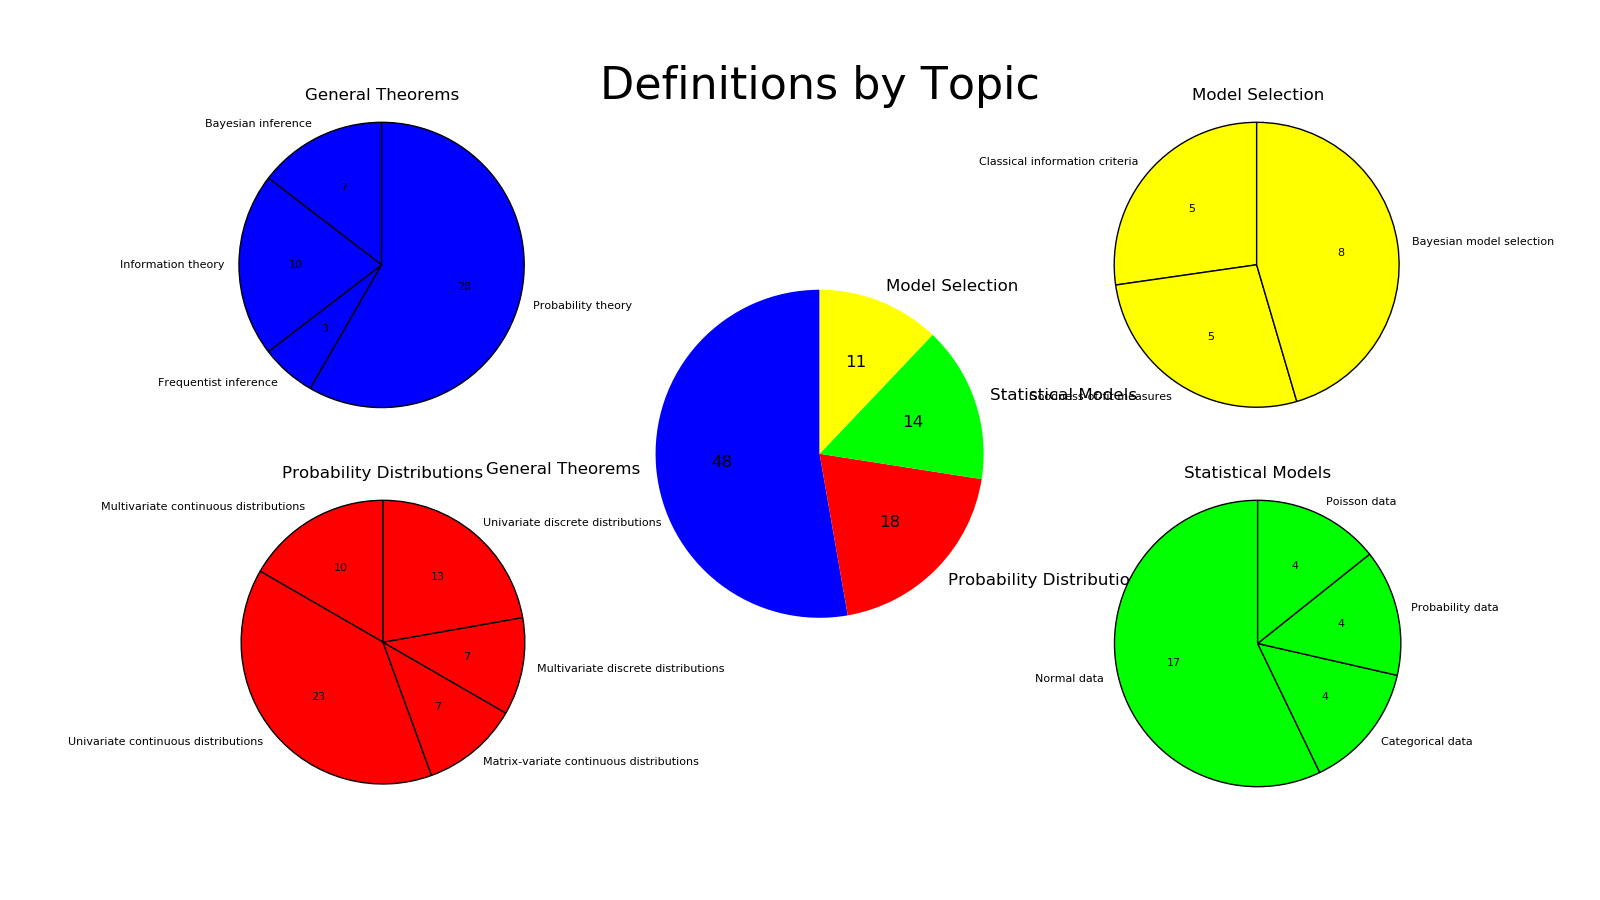
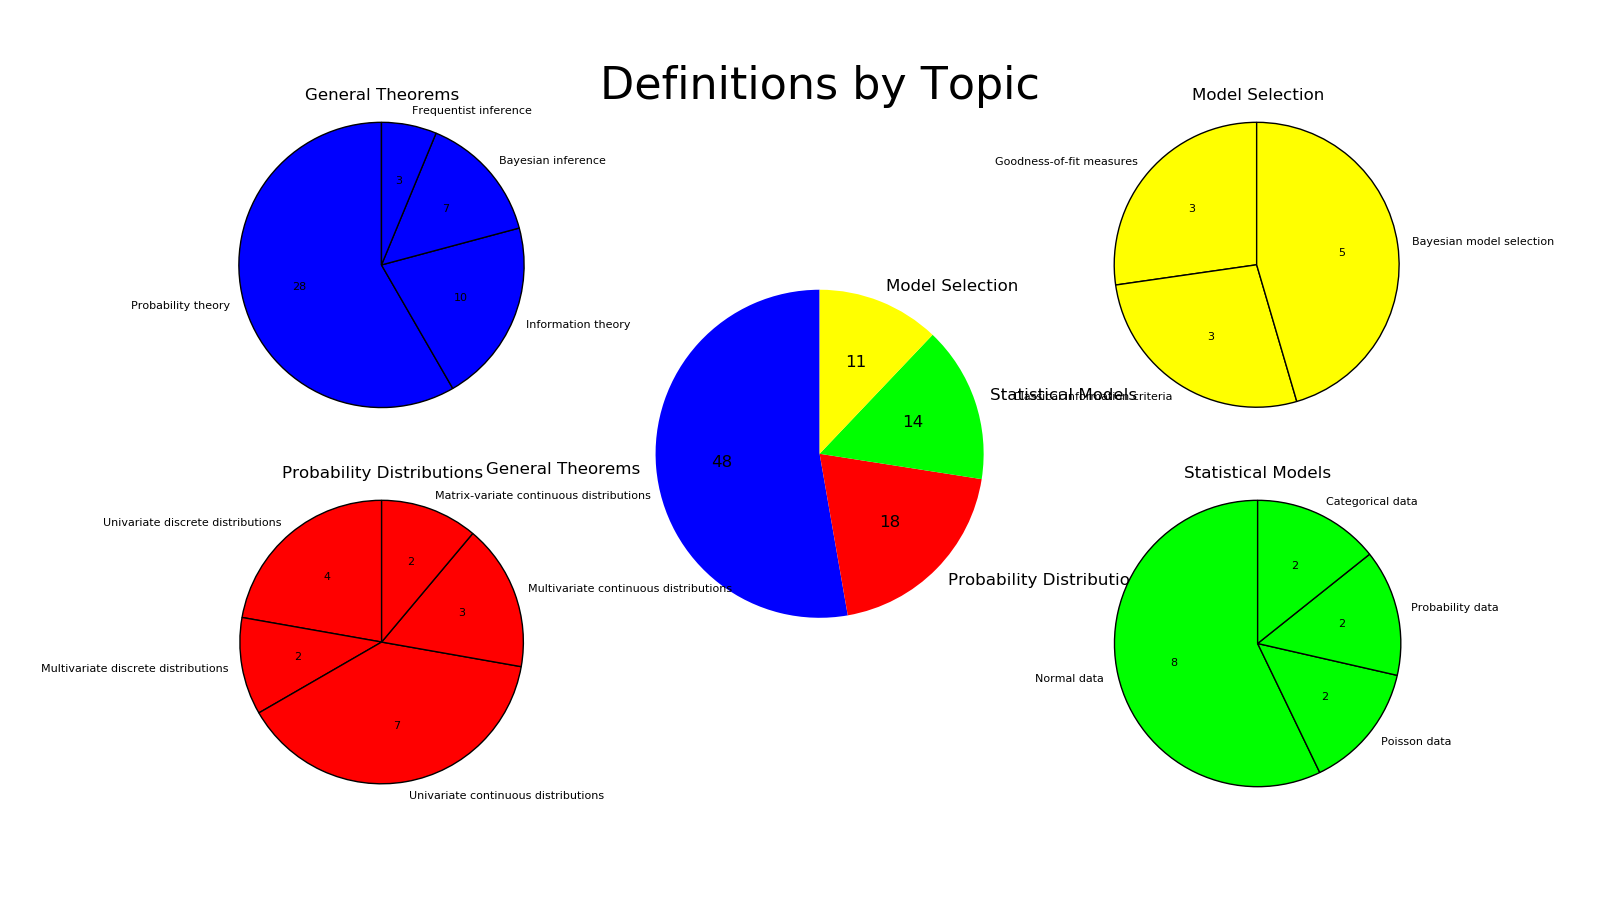
edited "display_content"
The content display function now extracts files to read directly from the Table of Contents instead of indirectly from proof and definition directory. For that purpose, the new function "get_all_items" was also added to "BookTools.py".

diff --git a/display_content.py b/display_content.py
@@ -2,20 +2,21 @@
 """
 Display content in the StatProofBook
 _
-This script loads all content from the proof and definition directories and
-visualizes proof and definition numbers over time.
+This script loads all content via the table of contents and visualizes
+(i) Content by Type, (ii) Development over Time as well as
+(iii) Proof and Definition by Topic.
 
 Author: Joram Soch, BCCN Berlin
 E-Mail: joram.soch@bccn-berlin.de
 
 First edit: 2020-04-15 18:15:00
- Last edit: 2020-08-25 14:34:00
+ Last edit: 2020-08-25 18:23:00
 """
 
 
 # Import modules
 #-----------------------------------------------------------------------------#
-import os
+# import os
 import BookTools as spbt
 import matplotlib.pyplot as plt
 from datetime import datetime
@@ -39,53 +40,41 @@ D_chs  = []
 P_secs = []
 D_secs = []
 
-# Browse through proofs
+# Load "Table of Contents"
 #-----------------------------------------------------------------------------#
-files = os.listdir(rep_dir + '/P/')
-for file in files:
-    if '.md' in file:
-        
-        # Read proof file
-        #---------------------------------------------------------------------#
-        file_obj = open(rep_dir + '/P/' + file, 'r')
-        file_txt = file_obj.readlines()
-        file_obj.close()
-        
-        # Get proof date
-        #---------------------------------------------------------------------#
-        file_id, shortcut, title, username, date = spbt.get_meta_data(file_txt)
-        P_ids.append(file_id)
-        P_dates.append(date)
-        
-        # Get ToC info
-        #---------------------------------------------------------------------#
-        chapter, section, topic, item = spbt.get_toc_info(file_txt)
-        P_chs.append(chapter)
-        P_secs.append(section)
+toc_md  = '/I/Table_of_Contents.md'
+toc_obj = open(rep_dir + toc_md, 'r')
+toc_txt = toc_obj.readlines()
+toc_obj.close()
 
-# Browse through definitions
+# Browse through files
 #-----------------------------------------------------------------------------#
-files = os.listdir(rep_dir + '/D/')
+files_checked     = []
+nums, tocs, files = spbt.get_all_items(toc_txt)
 for file in files:
-    if '.md' in file:
+    if '.md' in file and file not in files_checked:
         
-        # Read proof file
+        # Read proof/definition
         #---------------------------------------------------------------------#
-        file_obj = open(rep_dir + '/D/' + file, 'r')
+        file_obj = open(rep_dir + file, 'r')
         file_txt = file_obj.readlines()
         file_obj.close()
         
-        # Get proof date
+        # Get date and info
         #---------------------------------------------------------------------#
         file_id, shortcut, title, username, date = spbt.get_meta_data(file_txt)
-        D_ids.append(file_id)
-        D_dates.append(date)
-        
-        # Get ToC info
-        #---------------------------------------------------------------------#
-        chapter, section, topic, item = spbt.get_toc_info(file_txt)
-        D_chs.append(chapter)
-        D_secs.append(section)
+        chapter, section, topic, item            = spbt.get_toc_info(file_txt)
+        if file.find('/P/') > -1:
+            P_ids.append(file_id)
+            P_dates.append(date)
+            P_chs.append(chapter)
+            P_secs.append(section)
+        if file.find('/D/') > -1:
+            D_ids.append(file_id)
+            D_dates.append(date)
+            D_chs.append(chapter)
+            D_secs.append(section)
+        files_checked.append(file)
 
 # Calculate date differences
 #-----------------------------------------------------------------------------#
@@ -131,14 +120,16 @@ P_ch_num  = [0] * len(ch_labels)
 D_sec_num = [None] * len(ch_labels)
 P_sec_num = [None] * len(ch_labels)
 for i,li in enumerate(ch_labels):
-    D_ch_num[i]   = D_chs.count(li)
-    P_ch_num[i]   = P_chs.count(li)
-    D_secs_i      = [b for a,b in zip(D_chs,D_secs) if a==li]
-    P_secs_i      = [b for a,b in zip(P_chs,P_secs) if a==li]
-    D_labels[i]   = list(set(D_secs_i))
-    P_labels[i]   = list(set(P_secs_i))
-    D_sec_num[i]  = [0] * len(D_labels[i])
-    P_sec_num[i]  = [0] * len(P_labels[i])
+    D_ch_num[i]  = D_chs.count(li)
+    P_ch_num[i]  = P_chs.count(li)
+    D_secs_i     = [b for a,b in zip(D_chs,D_secs) if a==li]
+    P_secs_i     = [b for a,b in zip(P_chs,P_secs) if a==li]
+    D_seen_i     = set()
+    P_seen_i     = set()
+    D_labels[i]  = [x for x in D_secs_i if not (x in D_seen_i or D_seen_i.add(x))]
+    P_labels[i]  = [x for x in P_secs_i if not (x in P_seen_i or P_seen_i.add(x))]
+    D_sec_num[i] = [0] * len(D_labels[i])
+    P_sec_num[i] = [0] * len(P_labels[i])
     for j,lj in enumerate(D_labels[i]):
         D_sec_num[i][j] = D_secs_i.count(lj)
     for j,lj in enumerate(P_labels[i]):
@@ -147,8 +138,8 @@ for i,li in enumerate(ch_labels):
 # Pie chart (Content by Type)
 #-----------------------------------------------------------------------------#
 plt.figure(figsize=(12,10))
-plt.pie([len(D_ids)-1, len(P_ids)-1], labels=['Definitions', 'Proofs'], colors=['#0033FF', '#FF3300'],
-         autopct=lambda p: '{:.0f}'.format(p * sum([len(D_ids)-1, len(P_ids)-1]) / 100),
+plt.pie([len(D_ids), len(P_ids)], labels=['Definitions', 'Proofs'], colors=['#0044FF', '#FF4400'],
+         autopct=lambda p: '{:.0f}'.format(p * sum([len(D_ids), len(P_ids)]) / 100),
          startangle=90, shadow=False, textprops=dict(fontsize=24))
 plt.axis('equal')
 plt.title('Content by Type', fontsize=32)
@@ -190,7 +181,7 @@ for i,li in enumerate(ch_labels):
     plt.subplot(2,3,ch_sp[i])
     plt.pie(D_sec_num[i], labels=D_labels[i], colors=[ch_col[i]],
             wedgeprops={'edgecolor': 'k', 'linewidth': 1},
-            autopct=lambda p: '{:.0f}'.format(p * sum(P_sec_num[i]) / 100),
+            autopct=lambda p: '{:.0f}'.format(p * sum(D_sec_num[i]) / 100),
             startangle=90, shadow=False, textprops=dict(fontsize=8))
     plt.axis('equal')
     plt.title(ch_labels[i], fontsize=12)
@@ -200,8 +191,8 @@ plt.show()
 # Line plot (Development over Time)
 #-----------------------------------------------------------------------------#
 plt.figure(figsize=(16,9))
-h1 = plt.plot(x2, y2, 'b-', linewidth=2, color='#0033FF')
-h2 = plt.plot(x1, y1, 'r-', linewidth=2, color='#FF3300')
+h1 = plt.plot(x2, y2, 'b-', linewidth=2, color='#0044FF')
+h2 = plt.plot(x1, y1, 'r-', linewidth=2, color='#FF4400')
 plt.axis([0, T, -0.1, +(11/10)*max([max(P_no), max(D_no)])])
 plt.grid(True)
 plt.xlabel('days since inception of the StatProofBook (August 26, 2019)', fontsize=16)

diff --git a/BookTools.py b/BookTools.py
@@ -9,7 +9,7 @@ Author: Joram Soch, BCCN Berlin
 E-Mail: joram.soch@bccn-berlin.de
 
 First edit: 2020-04-14 16:35:00
- Last edit: 2020-04-14 16:35:00
+ Last edit: 2020-08-25 17:23:00
 """
 
 
@@ -34,6 +34,58 @@ def get_rep_dir(rep_type):
         return www_dir
     else:
         return rep_dir
+
+# Get items from ToC
+#-----------------------------------------------------------------------------#
+def get_all_items(toc_txt):
+    """
+    Extract relative proof and definition filenames from Table of Contents
+    """
+    # Set chapter and section names
+    #-------------------------------------------------------------------------#
+    num_chap  = 0;  nums = []
+    num_sect  = 0;
+    num_ssec  = 0;
+    num_ssse  = 0;
+    curr_chap = ''; tocs = []
+    curr_sect = '';
+    curr_ssec = '';
+    curr_ssse = ''; files = []
+    # Parse "Table of Contents"
+    #-------------------------------------------------------------------------#
+    for entry in toc_txt:
+        # If there is a new chapter
+        #---------------------------------------------------------------------#
+        if entry.count('.') == 0 and entry.find('<h3>') > -1:
+            num_sect  = 0
+            num_chap  = num_chap + 1
+            curr_chap = entry[entry.find('<h3>')+4:entry.find('</h3>')]
+            curr_chap = curr_chap[curr_chap.find(': ')+2:]
+        # If there is a new section
+        #---------------------------------------------------------------------#
+        if entry.count('.') == 1 and entry.find(str(num_sect+1) + '. ') > -1:
+            num_ssec  = 0
+            num_sect  = num_sect + 1        
+            curr_sect = entry[entry.find('. ')+2:entry.find('\n')]
+        # If there is a new subsection
+        #---------------------------------------------------------------------#
+        if entry.count('.') == 2 and entry.find(str(num_sect) + '.' + str(num_ssec+1) + '. ') > -1:  
+            num_ssse  = 0
+            num_ssec  = num_ssec + 1
+            curr_ssec = entry[entry.find('. ')+2:entry.find('<br>')]
+            if curr_ssec[-1] == ' ': curr_ssec = curr_ssec[0:-1]
+        # If there is a new subsubsection
+        #---------------------------------------------------------------------#
+        if entry.count('.') >= 3 and entry.find(str(num_sect) + '.' + str(num_ssec) + '.' + str(num_ssse+1) + '. ') > -1:
+            num_ssse  = num_ssse + 1
+            curr_ssse = entry[entry.find('[')+1:entry.find(']')]
+            file      = entry[entry.find('(', entry.find(']'))+1:entry.find(')', entry.find(']'))]
+            file_md   = file + '.md'
+            # store file information
+            nums.append([num_chap,  num_sect,  num_ssec,  num_ssse])
+            tocs.append([curr_chap, curr_sect, curr_ssec, curr_ssse])
+            files.append(file_md)
+    return nums, tocs, files
 
 # Get meta data
 #-----------------------------------------------------------------------------#

diff --git a/README.md b/README.md
@@ -14,5 +14,6 @@ To configure everything, proceed as follows:
 In more details, the tools allow you to:
 * `write_book.py`: write all StatProofBook content into a [LaTeX source file](https://github.com/StatProofBook/StatProofBookTools/blob/master/write_book/StatProofBook.tex) that results in a [PDF of the book](https://github.com/StatProofBook/StatProofBookTools/blob/master/write_book/StatProofBook.pdf);
 * `report_links.py`: create a [list of dead links](https://github.com/StatProofBook/StatProofBookTools/blob/master/report_links/Dead_Links.txt), i.e. a list of pages which are referenced but non-existing;
+* `find_conflicts.py`: create a list of conflicts, i.e. mismatches between table of contents and proofs/definitions;
 * `replace_string.py`: replace an arbitrary string with another predefined string in all proofs and definitions;
 * `display_content.py`: display some stats regarding [content](https://github.com/StatProofBook/StatProofBookTools/blob/master/display_content/Content.png), [development](https://github.com/StatProofBook/StatProofBookTools/blob/master/display_content/Development.png), [proofs](https://github.com/StatProofBook/StatProofBookTools/blob/master/display_content/Topic_Proofs.png) and [definitions](https://github.com/StatProofBook/StatProofBookTools/blob/master/display_content/Topic_Definitions.png).
